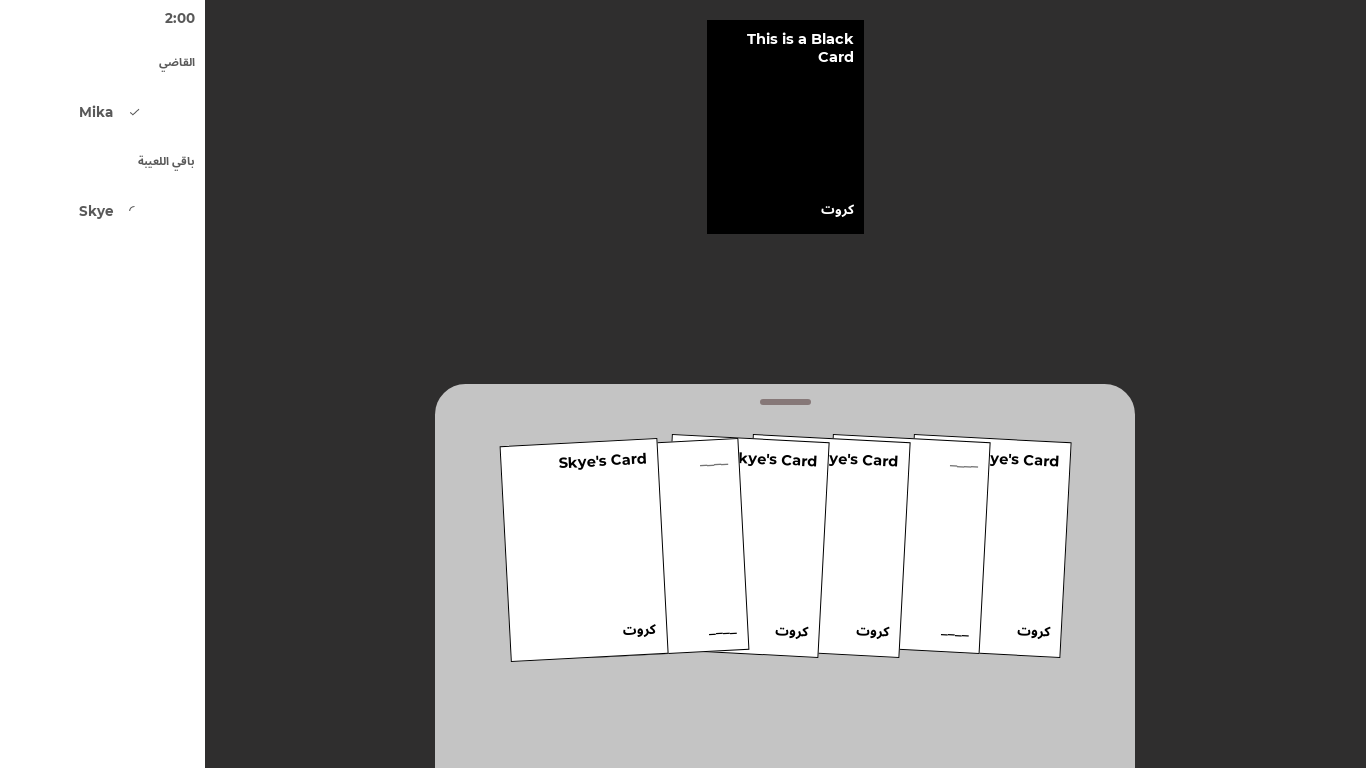
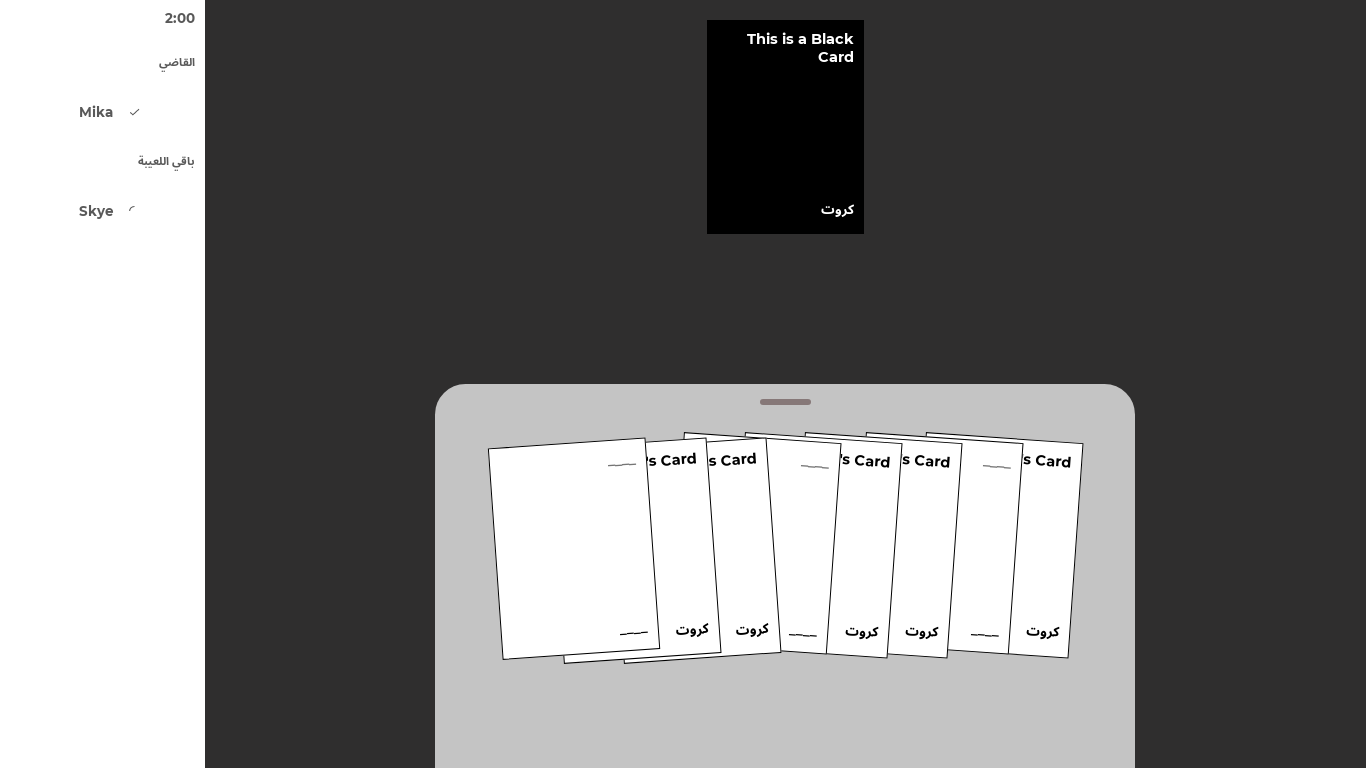
added more testing cards

Changed region(s): [[0.3997, 0.5625, 0.7994, 0.875], [0.3382, 0.5625, 0.7379, 0.875]]

diff --git a/src/mocks/io.js b/src/mocks/io.js
@@ -240,7 +240,9 @@ function startKuruit()
         { key: Math.random(), type: 'white', content: 'Skye\'s Card' },
         { key: Math.random(), type: 'white', content: 'Skye\'s Card' },
         { key: Math.random(), type: 'white', blank: true },
-        { key: Math.random(), type: 'white', content: 'Skye\'s Card' }
+        { key: Math.random(), type: 'white', content: 'Skye\'s Card' },
+        { key: Math.random(), type: 'white', content: 'Skye\'s Card' },
+        { key: Math.random(), type: 'white', blank: true }
       ]
   };
 
